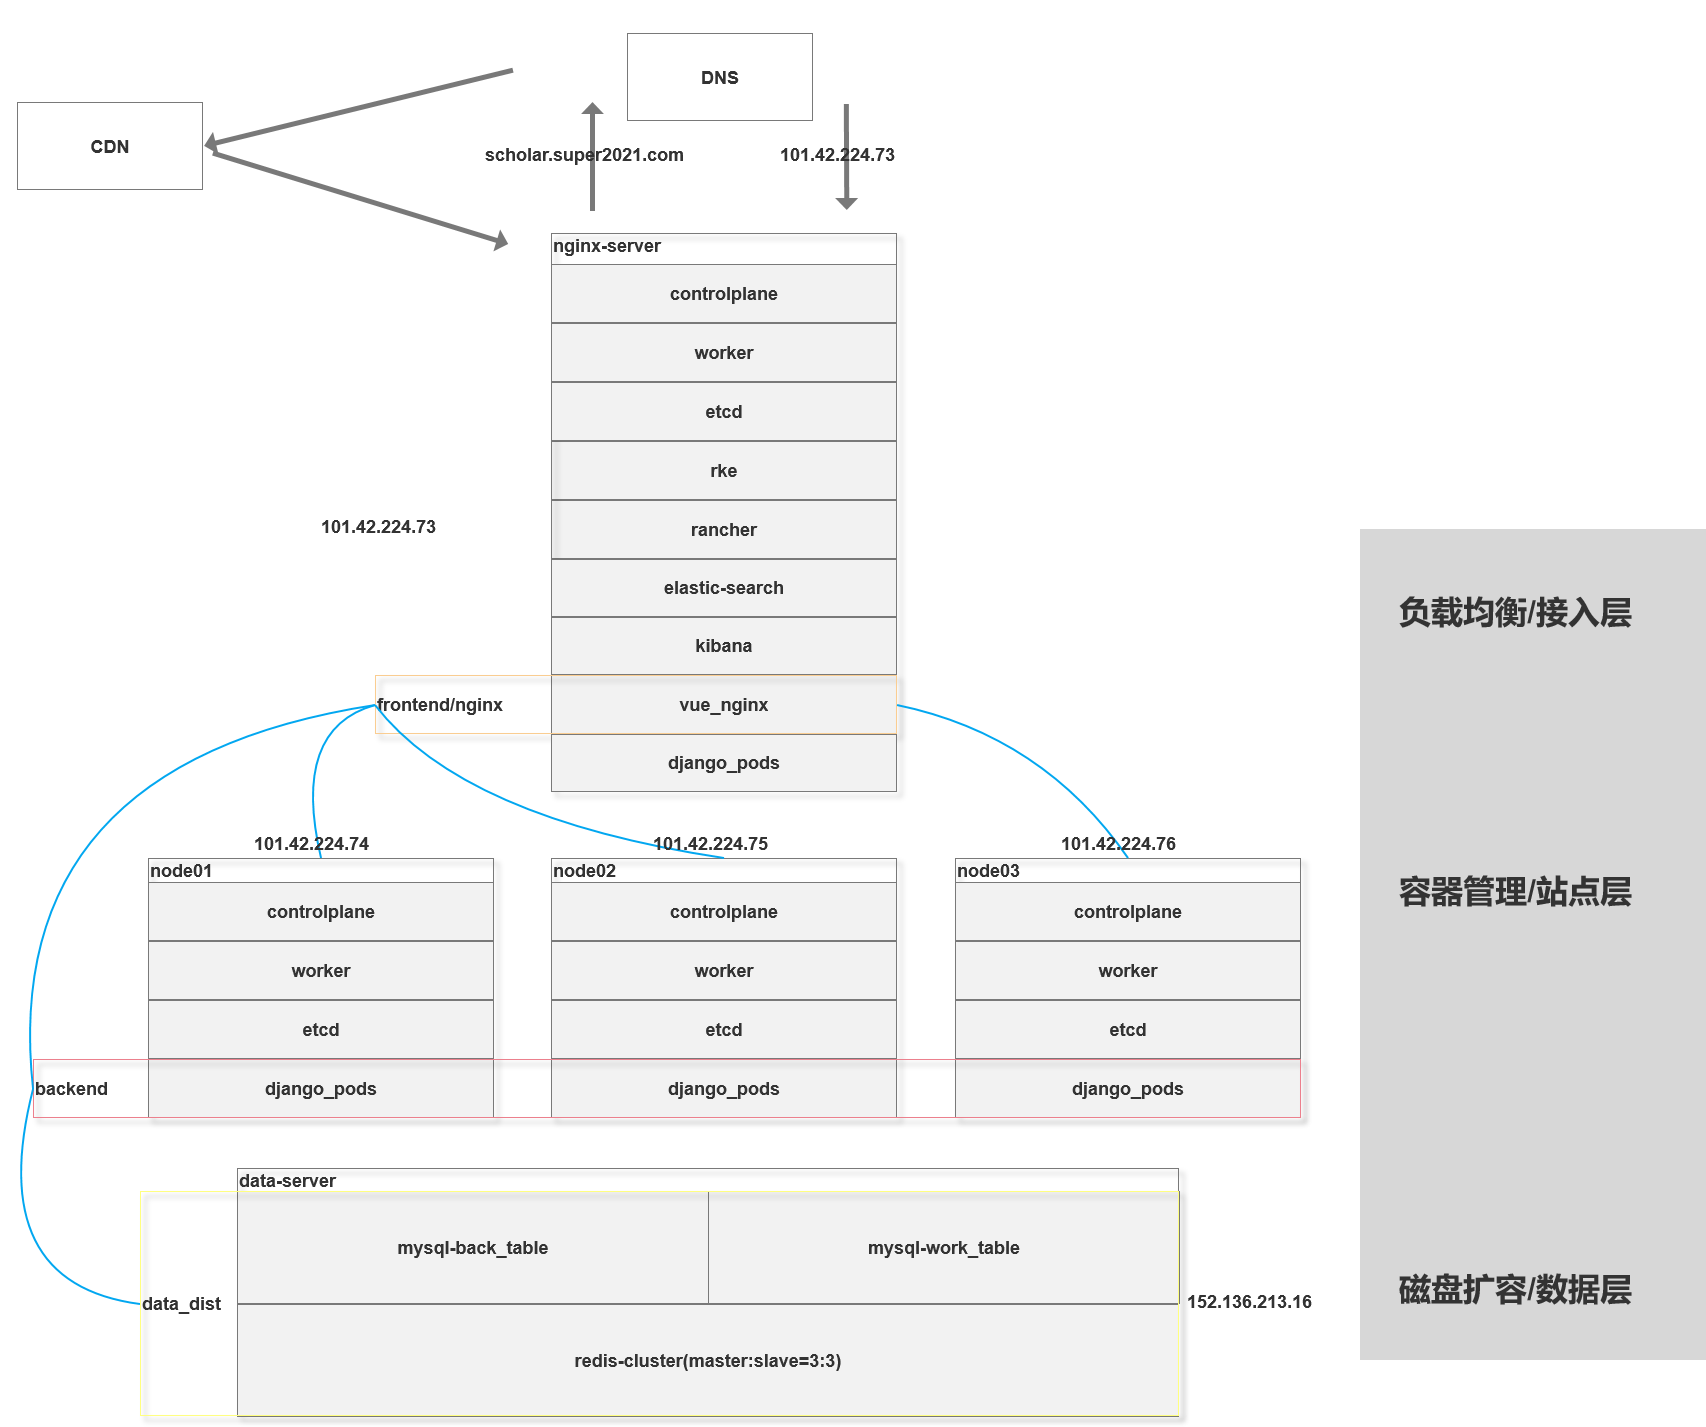
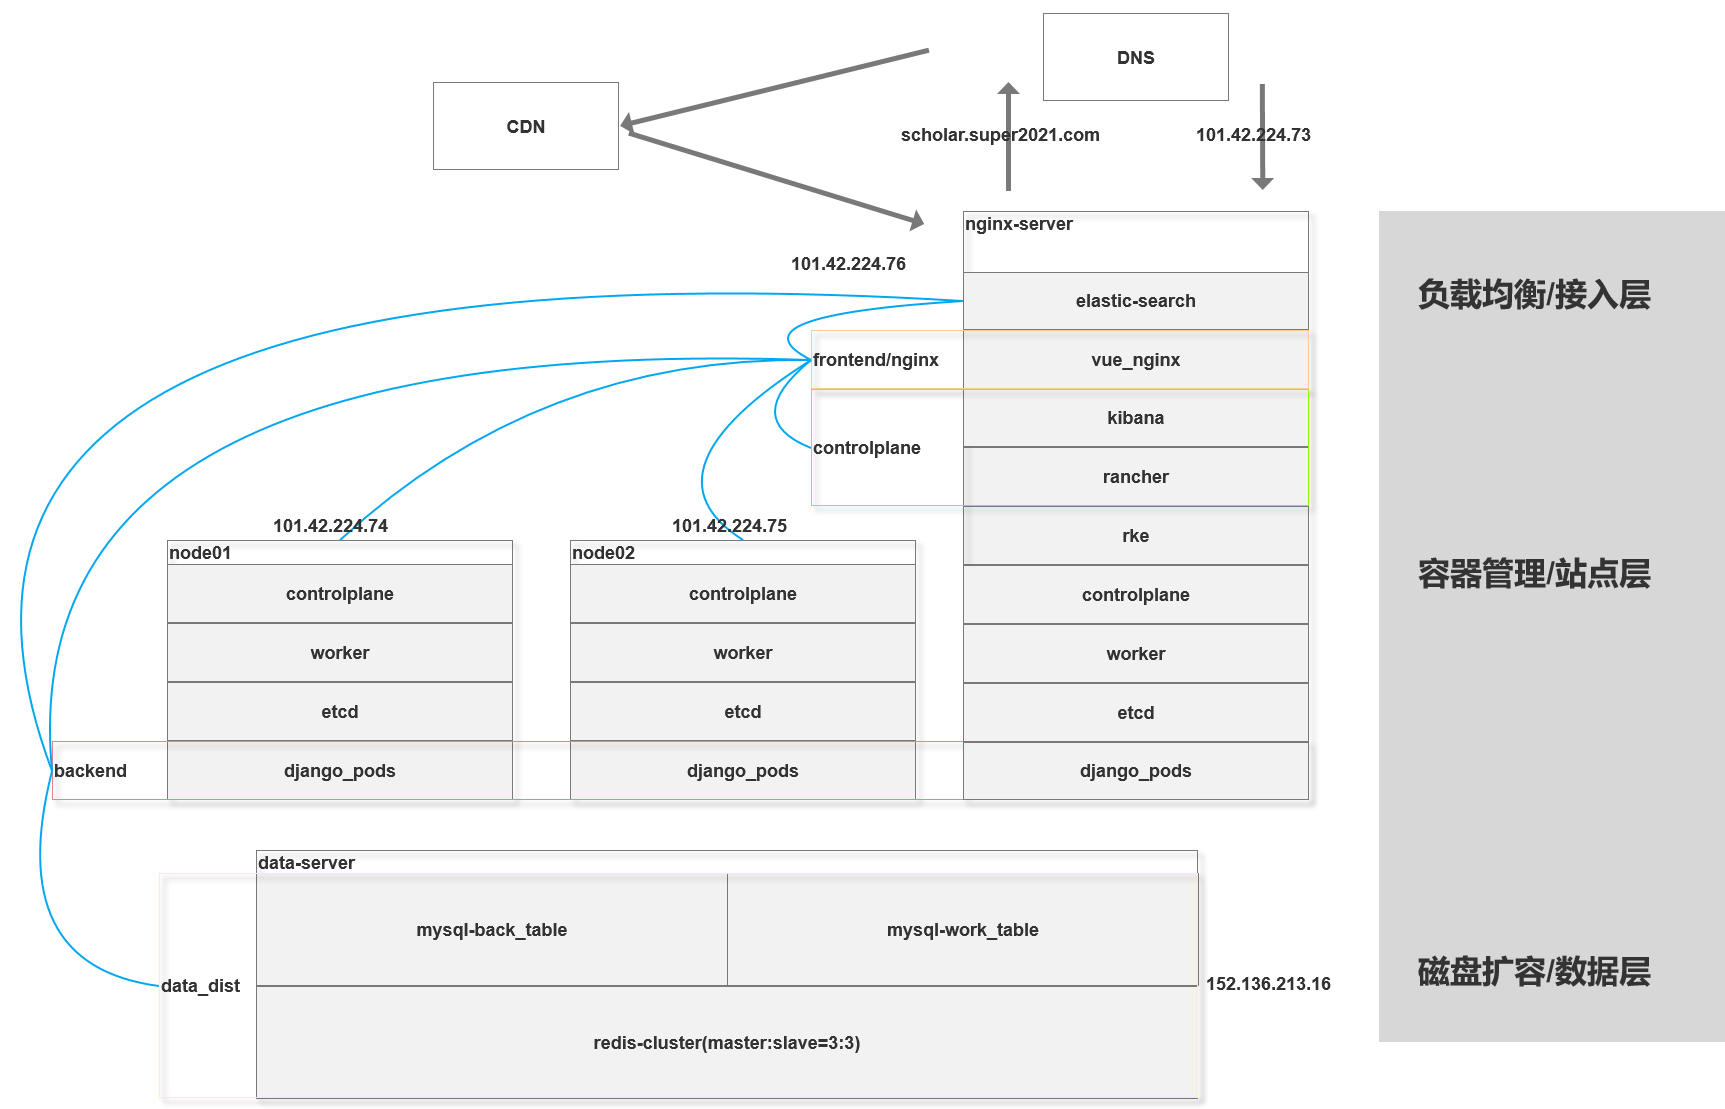
docx: update structure

diff --git a/README.md b/README.md
@@ -32,7 +32,7 @@ mysql单点放置在node02中会增大开支，并且做为备份而存在的数
 
 ![structure_2](image/structure_2.png)
 
-主体仍然是三个服务器，对于之前的问题1和问题2，单独使用了一个数据服务器来存储数据，只需要挂载一个大容量数据盘；对于之前问题3和问题4，使用一台负载均衡服务器，对在节点服务器上的服务进行转发，从而实现负载均衡。elastic-search比较吃内存，将其和nginx集成在高性能的云服务器中；对于问题5，将其放在高性能服务器中，一方面用作前端容器，另一方面可使用里面的nginx做一级的负载均衡。
+主体仍然是三个服务器，单独使用了一个数据服务器来存储数据，只需要挂载一个大容量数据盘；使用nginx将请求转入node01和node02中，进行一次简单的轮询，进入node01和node02的请求经过K8s的调度，选择一个合适的pod来响应请求，从而实现二级负载均衡；elastic-search比较吃内存，将其和vue和nginx单独部署在高性能的云服务器中。
 
 使用高性能服务器可以让K8s集群中存放更多的pod，使得后端达到快速响应的功能。
 
